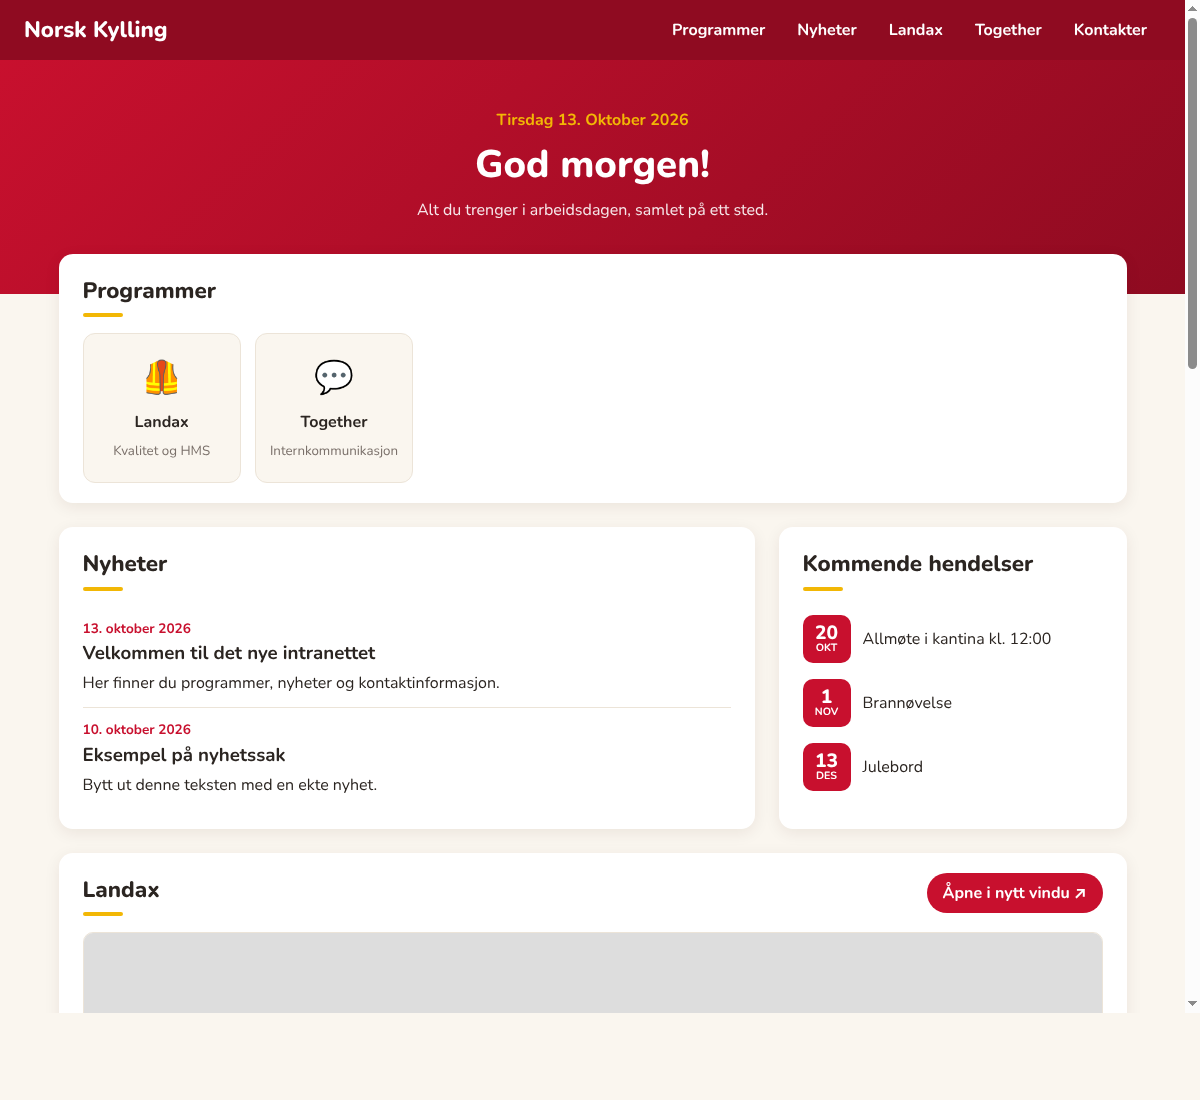
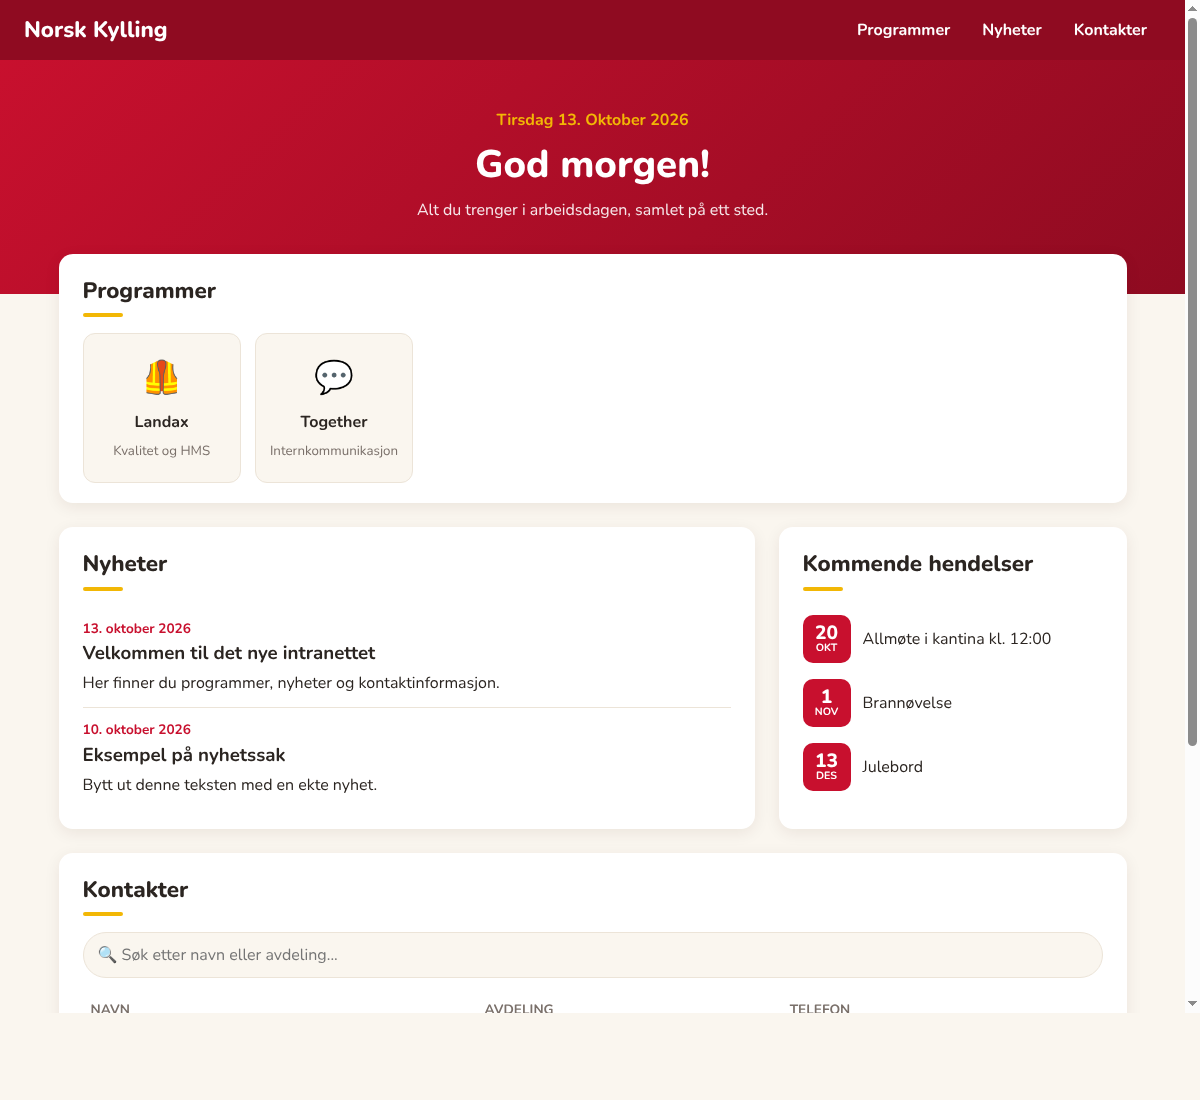
Fjern tomme bokser for Landax og Together
Sidene nekter å vises inne i andre sider, så de nås nå via programkortene.

Claude-Session: https://claude.ai/code/session_01N7KWWqLhs8Wce4mBjAMrAi

diff --git a/index.html b/index.html
@@ -22,8 +22,6 @@
     <nav>
       <a href="#programmer">Programmer</a>
       <a href="#nyheter">Nyheter</a>
-      <a href="#landax">Landax</a>
-      <a href="#together">Together</a>
       <a href="#kontakter">Kontakter</a>
     </nav>
   </header>
@@ -70,23 +68,6 @@
       </section>
     </div>
 
-    <!-- LANDAX: en <iframe> er et "vindu" som viser en annen nettside -->
-    <section id="landax">
-      <div class="seksjonstopp">
-        <h2>Landax</h2>
-        <a href="https://norskkylling.landax.no/dashboard/71" target="_blank" rel="noopener" class="knapp">Åpne i nytt vindu ↗</a>
-      </div>
-      <iframe src="https://norskkylling.landax.no/dashboard/71" title="Landax"></iframe>
-    </section>
-
-    <!-- TOGETHER -->
-    <section id="together">
-      <div class="seksjonstopp">
-        <h2>Together</h2>
-        <a href="https://rema1000no.relesysapp.net/#/" target="_blank" rel="noopener" class="knapp">Åpne i nytt vindu ↗</a>
-      </div>
-      <iframe src="https://rema1000no.relesysapp.net/#/" title="Together"></iframe>
-    </section>
 
     <!-- KONTAKTER: legg til en ny rad (<tr>) for hver person -->
     <section id="kontakter">

diff --git a/style.css b/style.css
@@ -180,35 +180,6 @@ article p { margin: 0; }
 
 .dag small { font-size: 0.55em; text-transform: uppercase; font-weight: 700; }
 
-/* ===== LANDAX / TOGETHER ===== */
-.seksjonstopp {
-  display: flex;
-  flex-wrap: wrap;
-  justify-content: space-between;
-  align-items: flex-start;
-  gap: 8px;
-}
-
-iframe {
-  width: 100%;
-  height: 600px;
-  border: 1px solid var(--kant);
-  border-radius: 10px;
-  background: var(--bakgrunn);
-}
-
-.knapp {
-  display: inline-block;
-  padding: 8px 16px;
-  background: var(--hovedfarge);
-  color: white;
-  border-radius: 999px;
-  text-decoration: none;
-  font-weight: 700;
-}
-
-.knapp:hover { background: var(--hovedfarge-mork); }
-
 /* ===== KONTAKTER ===== */
 #sok {
   width: 100%;
